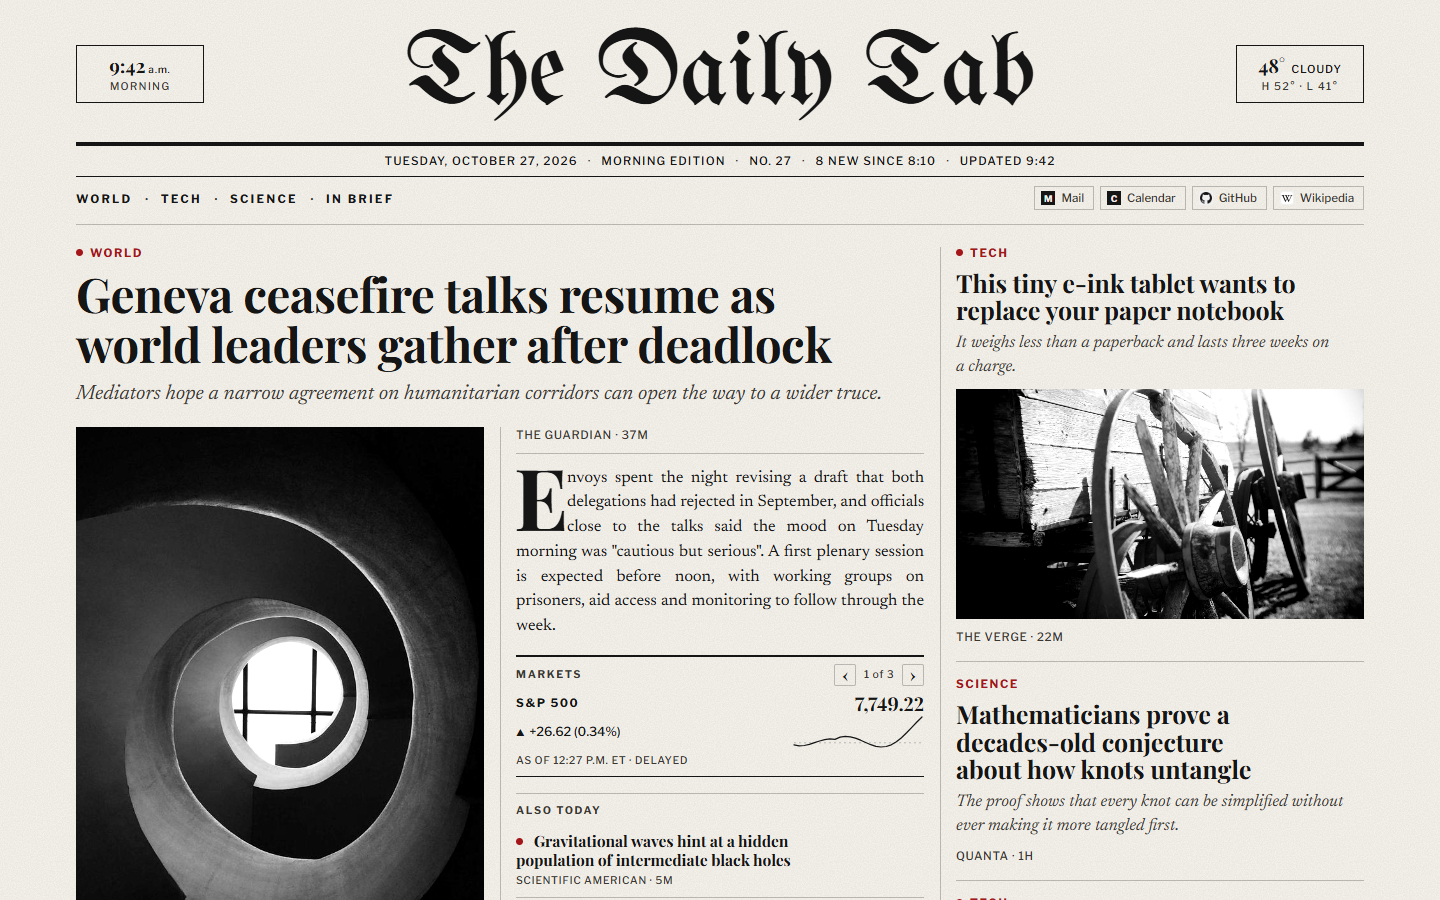
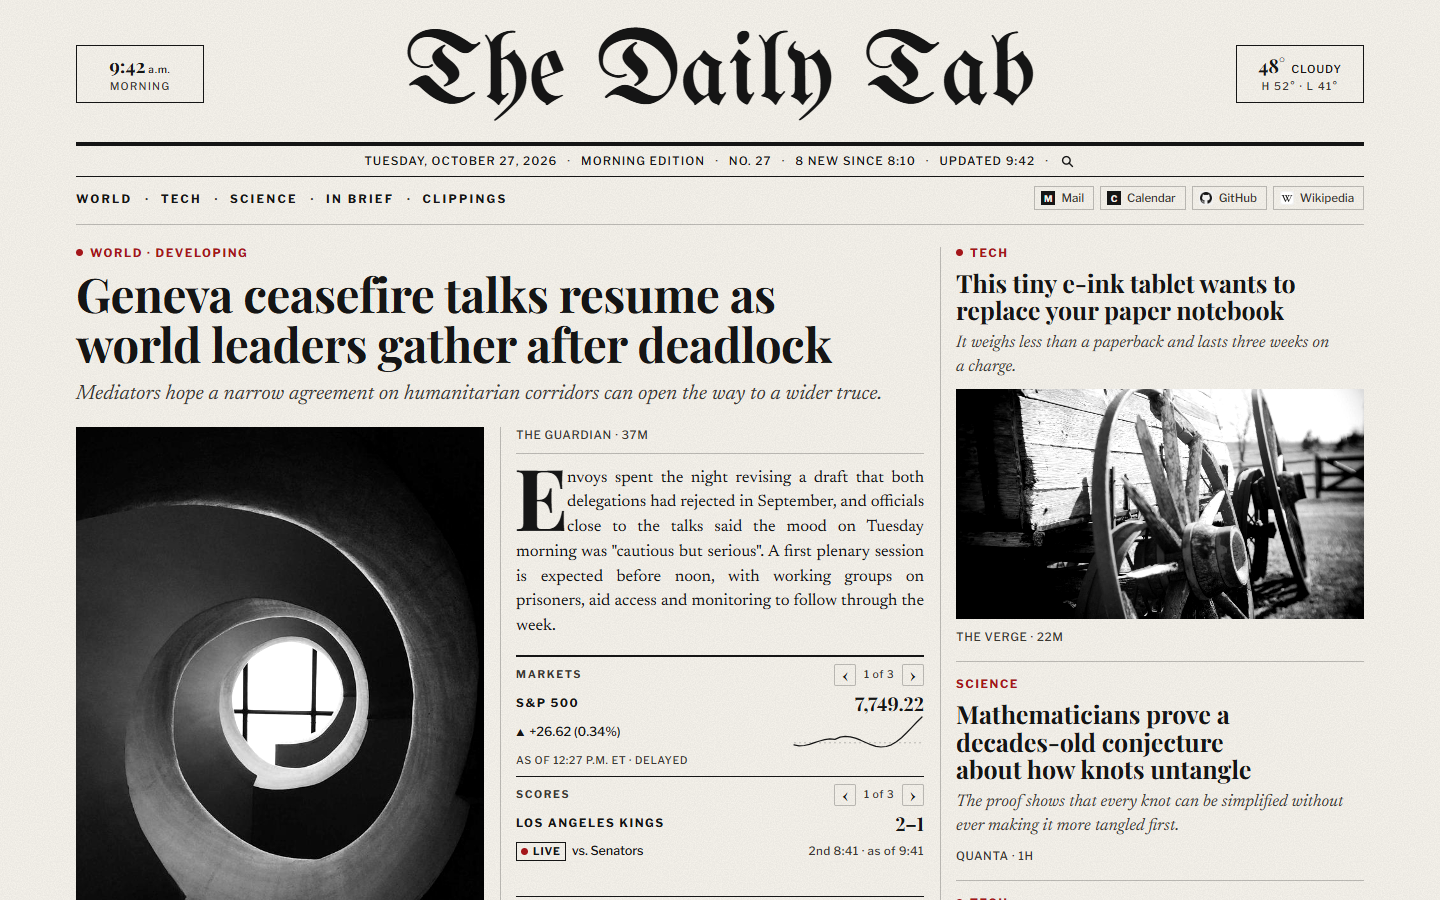
Search moves to a magnifying glass at the end of the date line
The "Search" link leaves the section index; an icon button now sits after
"Updated 9:42" in the folio, next to the page's other action (refresh).
/ still opens search. The preview shows the icon too, and the README
screenshot is refreshed. verify-newtab now sends a right-click menu choice
only to the tab whose menu was used, as onClicked does (sending it to every
open new tab made two tabs toggle the same clipping).

diff --git a/src/ui/Masthead.svelte b/src/ui/Masthead.svelte
@@ -75,7 +75,26 @@
         title="Fetch the latest stories now"
         aria-label={refreshing ? 'Updating' : `${view.updatedLabel}. Refresh now`}
         >{refreshing ? 'Updating…' : view.updatedLabel}</button
-      >{:else}<span>{view.updatedLabel}</span>{/if}
+      >{:else}<span>{view.updatedLabel}</span>{/if}{#if onsearch}<span
+        class="sep"
+        aria-hidden="true">·</span
+      ><button
+        type="button"
+        class="folio-search"
+        onclick={onsearch}
+        title="Search stories (/)"
+        aria-label="Search stories"
+        ><svg
+          width="13"
+          height="13"
+          viewBox="0 0 16 16"
+          fill="none"
+          stroke="currentColor"
+          stroke-width="1.7"
+          stroke-linecap="round"
+          aria-hidden="true"><circle cx="6.6" cy="6.6" r="4.6" /><path d="M10.1 10.1 14 14" /></svg
+        ></button
+      >{/if}
   </p>
 
   {#if view.sections.length || view.pinned.length}
@@ -88,13 +107,6 @@
             {/each}
             <li><a href="#in-brief">In Brief</a></li>
             {#if view.clippings.length}<li><a href="#clippings">Clippings</a></li>{/if}
-            {#if onsearch}
-              <li>
-                <button type="button" class="index-search" onclick={onsearch} title="Search (/)"
-                  >Search</button
-                >
-              </li>
-            {/if}
           </ul>
         </nav>
       {/if}
@@ -249,15 +261,16 @@
     letter-spacing: 0.2em;
     text-transform: uppercase;
   }
-  .index-search {
-    font: inherit;
-    letter-spacing: inherit;
-    text-transform: inherit;
-    color: inherit;
-    padding: 0;
+  /* Search sits with the page's other action (refresh) at the end of the folio. */
+  .folio-search {
+    display: inline-grid;
+    place-items: center;
+    align-self: center;
+    padding: 2px;
+    color: var(--ink);
   }
-  .index-search:hover {
-    text-decoration: underline;
+  .folio-search:hover {
+    color: var(--ink-2);
   }
   .index a:hover {
     text-decoration: underline;

diff --git a/preview/Preview.svelte b/preview/Preview.svelte
@@ -76,6 +76,7 @@
   onmore={(c) => console.info('more in', c)}
   onopen={(id) => console.info('open', id)}
   onsave={save}
+  onsearch={() => console.info('search')}
 />
 
 {#if toolbar}

diff --git a/README.md b/README.md
@@ -99,7 +99,7 @@ first.
 
 ## Search
 
-Press **/** or click **Search** at the end of the section index to search the last month of stories
+Press **/** or click the magnifying glass at the end of the date line to search the last month of stories
 kept on your computer. Every word you type must appear in a story's headline or summary (the
 start of a word is enough: "ukr" finds "Ukraine"); stories with every word in the headline come
 first, then the newest. **Esc** closes it.
